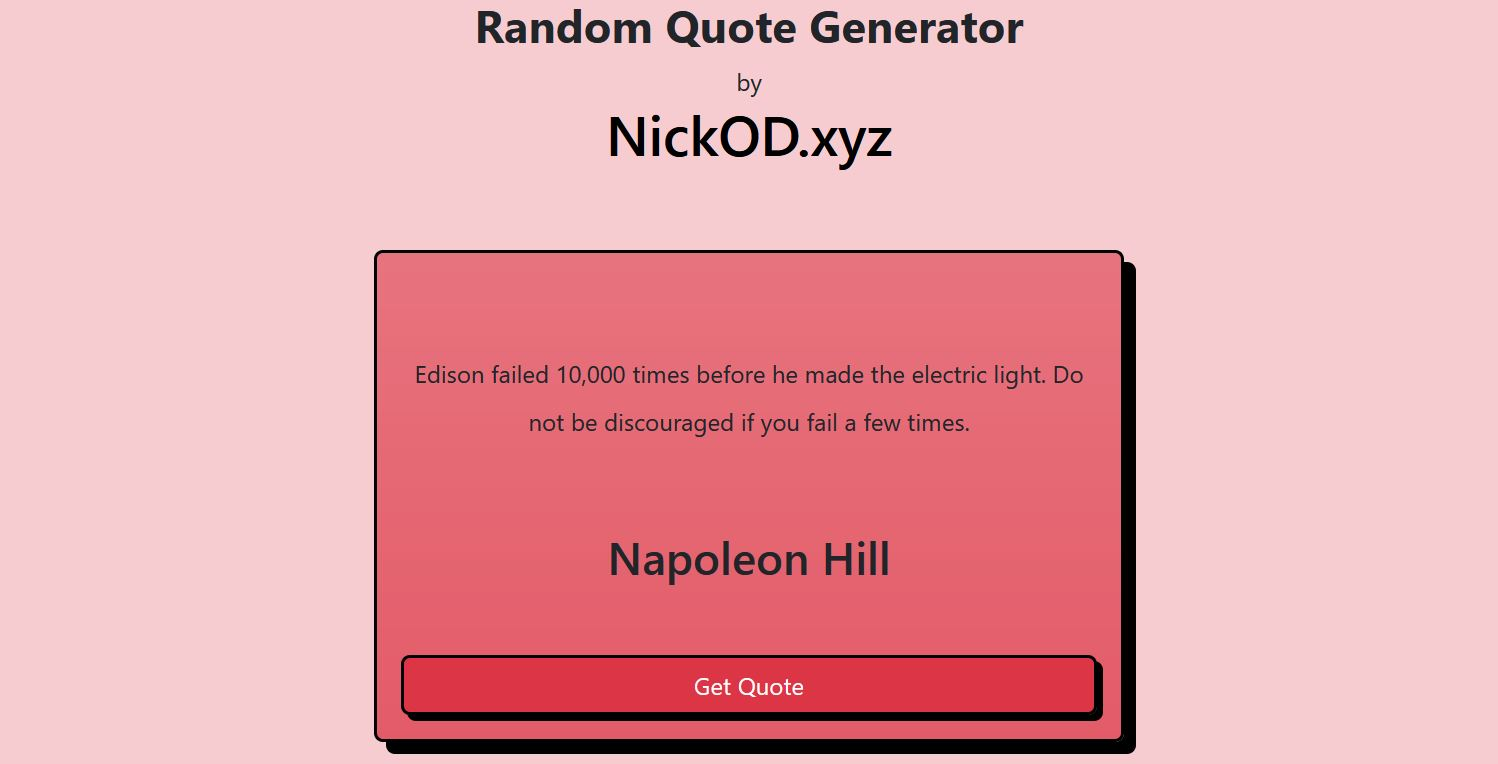
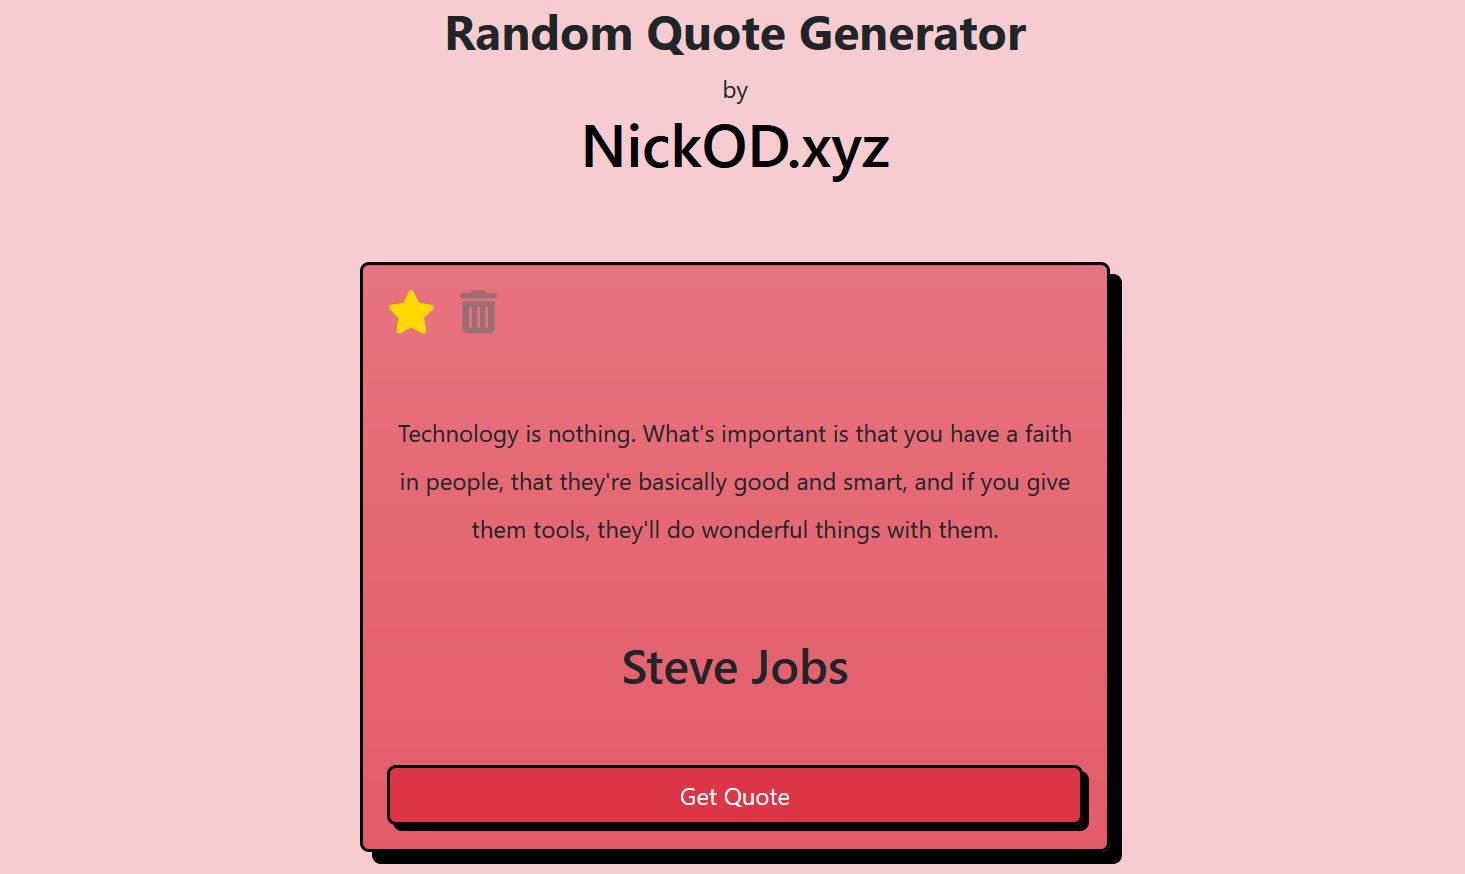
added new screenshot of random quote highlighting local storage usage

diff --git a/index.html b/index.html
@@ -250,8 +250,8 @@
                     </div>
                     <div class="project__card__content set-flex set-col">
                         <h2 class="project__card__heading">Random Quote Generator</h2>
-                        <p class="project__card__txt">Using a API to generate quotes for users, on page load and click.
-                            Using the try/catch fetch API method. Along with bootstrap for the site styling</p>
+                        <p class="project__card__txt">Using the try/catch fetch API method & local storage allowing
+                            persistent data to be stored. Along with bootstrap for the site styling</p>
                         <div class="tech__container set-flex center-h center-v">
                             <div class="tech__icons set-flex set-col center-v center-h">
                                 <img class="project__card__tech__icon" src="./assets/tech icons/html.svg" alt="">
